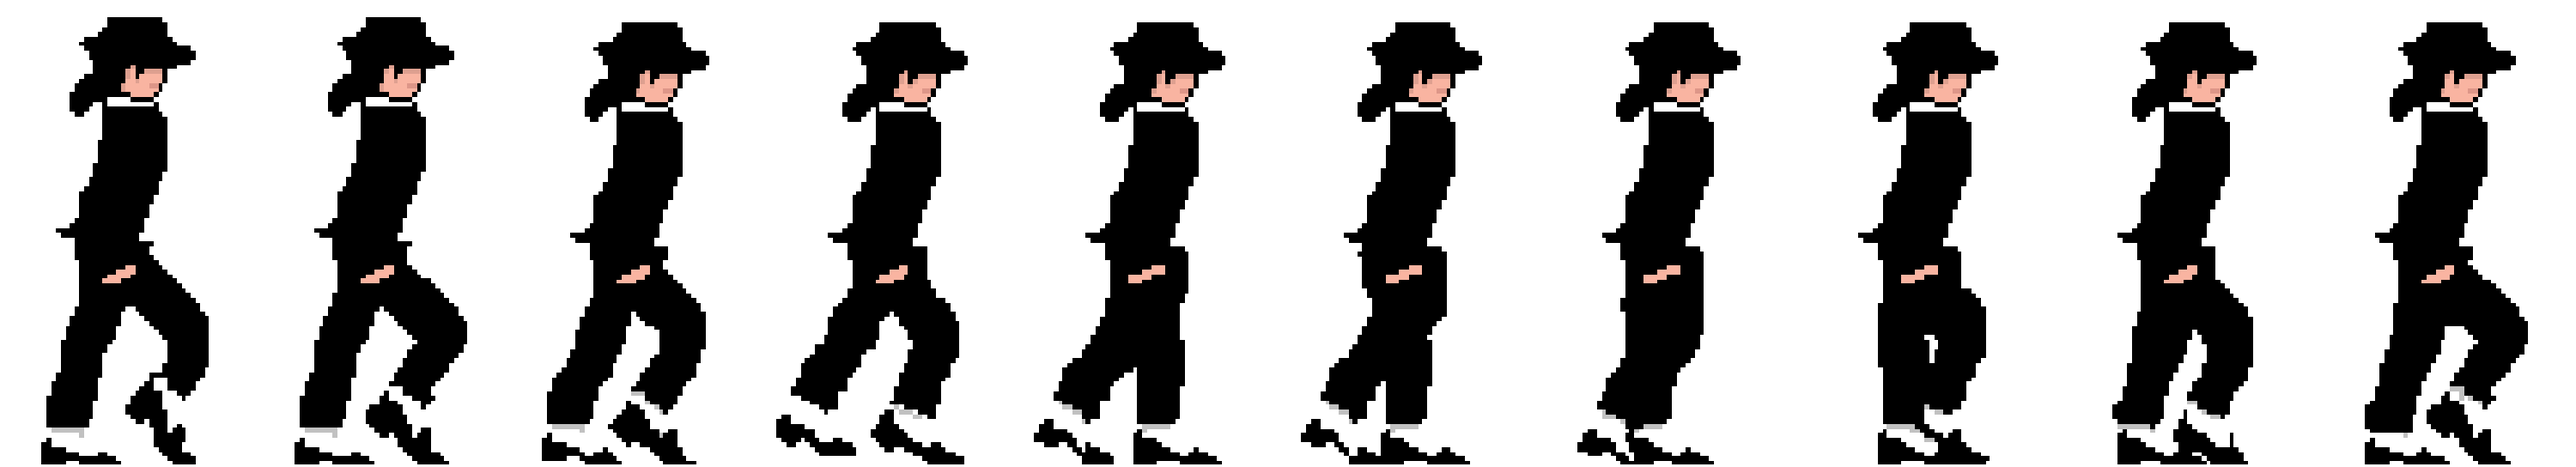
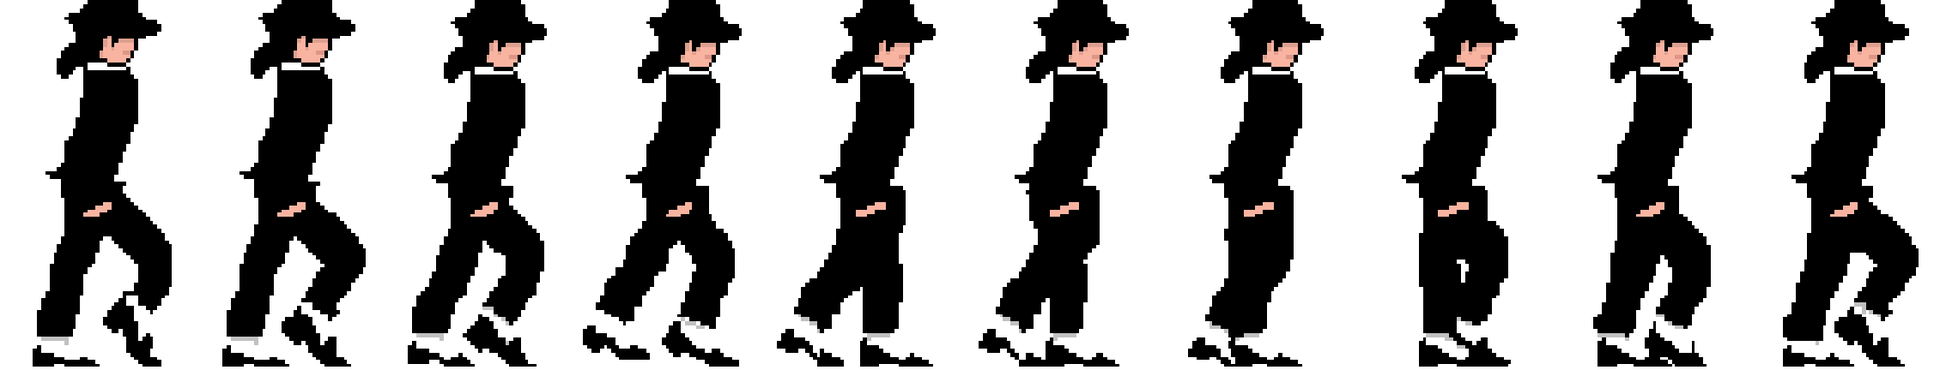
commit: fixed hitbox

diff --git a/src/scenes/Play.js b/src/scenes/Play.js
@@ -6,8 +6,8 @@ class Play extends Phaser.Scene {
     preload () {
         //place holder images
         this.load.spritesheet('copyright', './assets/copyright.png', {frameWidth: 147, frameHeight: 110, startFrame: 0, endFrame: 7});
-        this.load.spritesheet('backstage', './assets/backstage.png', {frameWidth: 640, frameHeight: 480, startFrame: 0, endFrame: 11});
-        this.load.spritesheet('moonwalk', './assets/moonwalk.png', {frameWidth: 300, frameHeight: 544, startFrame: 0, endFrame: 9});
+        this.load.spritesheet('backstage', './assets/backstage.png', {frameWidth: 640, frameHeight: 480, startFrame: 0, endFrame: 10});
+        this.load.spritesheet('moonwalk', './assets/moonwalk.png', {frameWidth: 226, frameHeight: 432, startFrame: 0, endFrame: 9});
         this.load.image('crowd', './assets/Crowd.png');
         this.load.image('crowd2', './assets/crowd2.png');
         this.load.image('crowd3', './assets/crowd3.png');
@@ -33,13 +33,14 @@ class Play extends Phaser.Scene {
 
         //add player
         this.player = new Player(this, game.config.width/2 - 8, 431, 'moonwalk').setScale(0.3, 0.3).setOrigin(0,0);
+        
 
         //Add Obstacles
-        this.ob1=new Obstacles(this, -100, Phaser.Math.Between(116, 360), 'copyright', 0).setOrigin(0,0);
-        this.ob2=new Obstacles(this, -120, Phaser.Math.Between(116, 360), 'copyright', 0).setOrigin(0,0);
-        this.ob3=new Obstacles(this, -130, Phaser.Math.Between(116, 360), 'copyright', 0).setOrigin(0,0);
-        this.ob4=new Obstacles(this, -160, Phaser.Math.Between(116, 360), 'copyright', 0).setOrigin(0,0);
-        this.ob5=new Obstacles(this, -200, Phaser.Math.Between(116, 360), 'copyright', 0).setOrigin(0,0);
+        this.ob1=new Obstacles(this, -100, Phaser.Math.Between(116, 360), 'copyright', 0).setOrigin(0,0).setScale(0.75, 0.75);
+        this.ob2=new Obstacles(this, -120, Phaser.Math.Between(116, 360), 'copyright', 0).setOrigin(0,0).setScale(0.75, 0.75);
+        this.ob3=new Obstacles(this, -130, Phaser.Math.Between(116, 360), 'copyright', 0).setOrigin(0,0).setScale(0.75, 0.75);
+        //this.ob4=new Obstacles(this, -160, Phaser.Math.Between(116, 360), 'copyright', 0).setOrigin(0,0).setScale(0.75, 0.75);
+       // this.ob5=new Obstacles(this, -200, Phaser.Math.Between(116, 360), 'copyright', 0).setOrigin(0,0).setScale(0.75, 0.75);
 
         // movement
         cursors = this.input.keyboard.createCursorKeys();
@@ -89,7 +90,7 @@ class Play extends Phaser.Scene {
         //Create anims for floor and player
         this.anims.create({
             key: 'shuffle',
-            frames: this.anims.generateFrameNumbers('backstage', {start: 0, end: 11, first: 0}),
+            frames: this.anims.generateFrameNumbers('backstage', {start: 0, end: 10, first: 0}),
             frameRate: 12,
             repeat: -1,
         }); 
@@ -112,8 +113,8 @@ class Play extends Phaser.Scene {
         this.ob1.anims.play('copyright');
         this.ob2.anims.play('copyright');
         this.ob3.anims.play('copyright');
-        this.ob4.anims.play('copyright');
-        this.ob5.anims.play('copyright');
+        //this.ob4.anims.play('copyright');
+        //this.ob5.anims.play('copyright');
         this.player.anims.play('moonwalk');
         this.backstage.anims.play('shuffle');
         this.backstage2.anims.play('shuffle');
@@ -151,8 +152,8 @@ class Play extends Phaser.Scene {
             this.ob1.update();
             this.ob2.update();
             this.ob3.update();
-            this.ob4.update();
-            this.ob5.update();
+           // this.ob4.update();
+           // this.ob5.update();
             this.scoreLeft.text=this.player.distance;
         }
         
@@ -182,18 +183,18 @@ class Play extends Phaser.Scene {
             this.add.text(game.config.width/2, game.config.height/2, 'GAME OVER', this.scoreConfig).setOrigin(0, 5);
             this.add.text(game.config.width/2, game.config.height/2+64, '<- to Restart or -> for Menu', this.scoreConfig).setOrigin(0, 5);
         }
-        if(this.checkCollision(this.player, this.ob4))
-        {
-            this.gameOver=true;
-            this.add.text(game.config.width/2, game.config.height/2, 'GAME OVER', this.scoreConfig).setOrigin(0, 5);
-            this.add.text(game.config.width/2, game.config.height/2+64, '<- to Restart or -> for Menu', this.scoreConfig).setOrigin(0, 5);
-        }
-        if(this.checkCollision(this.player, this.ob5))
-        {
-            this.gameOver=true;
-            this.add.text(game.config.width/2, game.config.height/2, 'GAME OVER', this.scoreConfig).setOrigin(0, 5);
-            this.add.text(game.config.width/2, game.config.height/2+64, '<- to Restart or -> for Menu', this.scoreConfig).setOrigin(0, 5);
-        }
+       // if(this.checkCollision(this.player, this.ob4))
+       // {
+       //     this.gameOver=true;
+       //     this.add.text(game.config.width/2, game.config.height/2, 'GAME OVER', this.scoreConfig).setOrigin(0, 5);
+       //     this.add.text(game.config.width/2, game.config.height/2+64, '<- to Restart or -> for Menu', this.scoreConfig).setOrigin(0, 5);
+       // }
+      //  if(this.checkCollision(this.player, this.ob5))
+       // {
+       //     this.gameOver=true;
+       //     this.add.text(game.config.width/2, game.config.height/2, 'GAME OVER', this.scoreConfig).setOrigin(0, 5);
+       //     this.add.text(game.config.width/2, game.config.height/2+64, '<- to Restart or -> for Menu', this.scoreConfig).setOrigin(0, 5);
+       // }
     }
 
     //checkCollision(player, obstacle)
@@ -215,8 +216,8 @@ class Play extends Phaser.Scene {
     checkCollision(player, obstacle)
     {
         //simple AABB checking
-        if(player.x<obstacle.x+obstacle.width&&
-            player.x+player.width>obstacle.x&&
+        if(player.x<obstacle.x+obstacle.width/2&&
+            player.x+player.width/2 >obstacle.x&&
             obstacle.y<player.y+20&&
             obstacle.y>player.y-20)
         {
